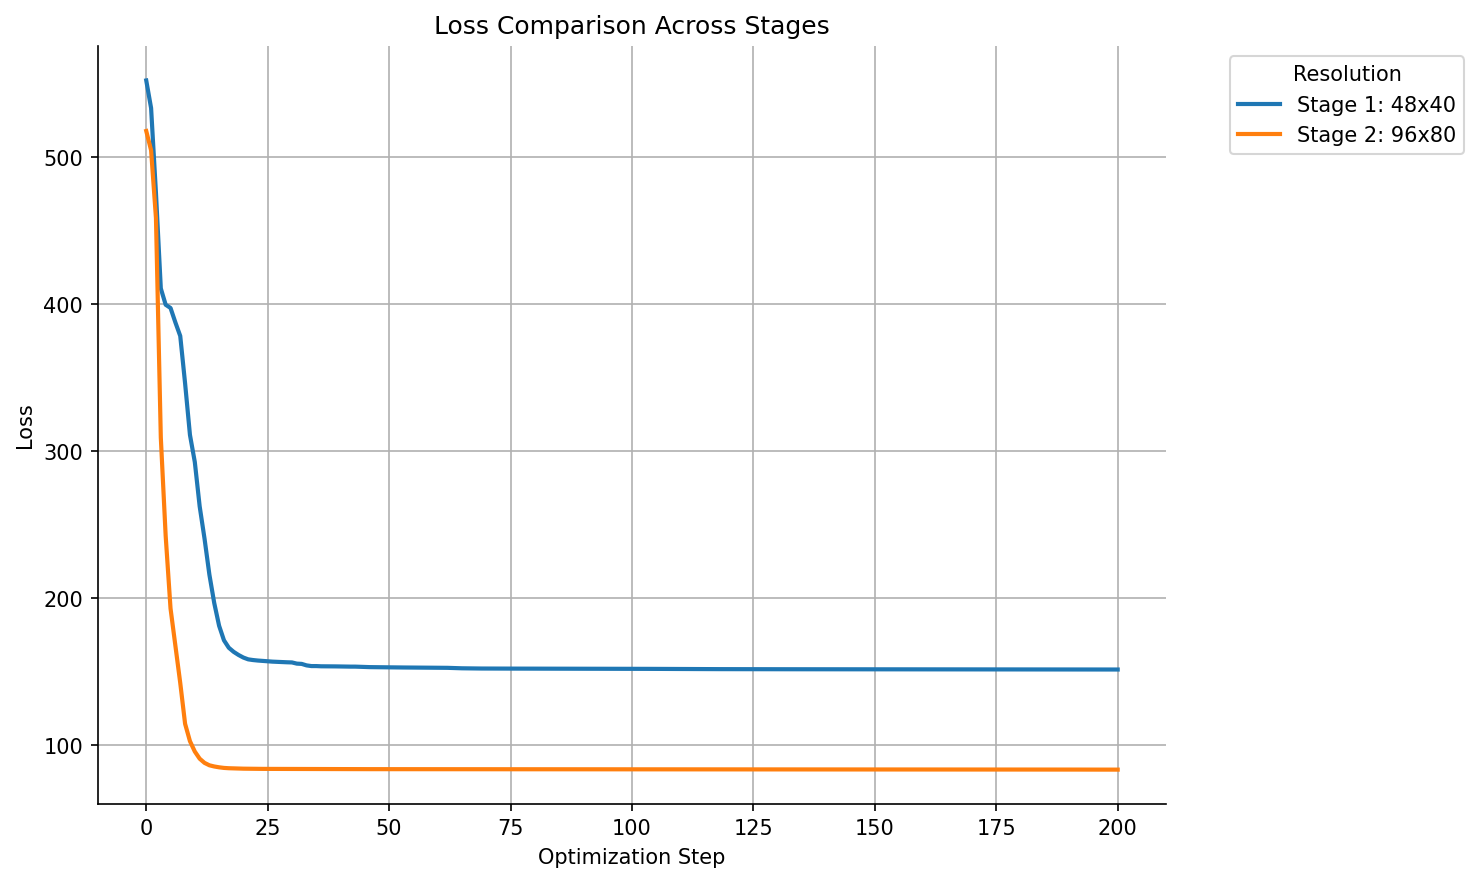
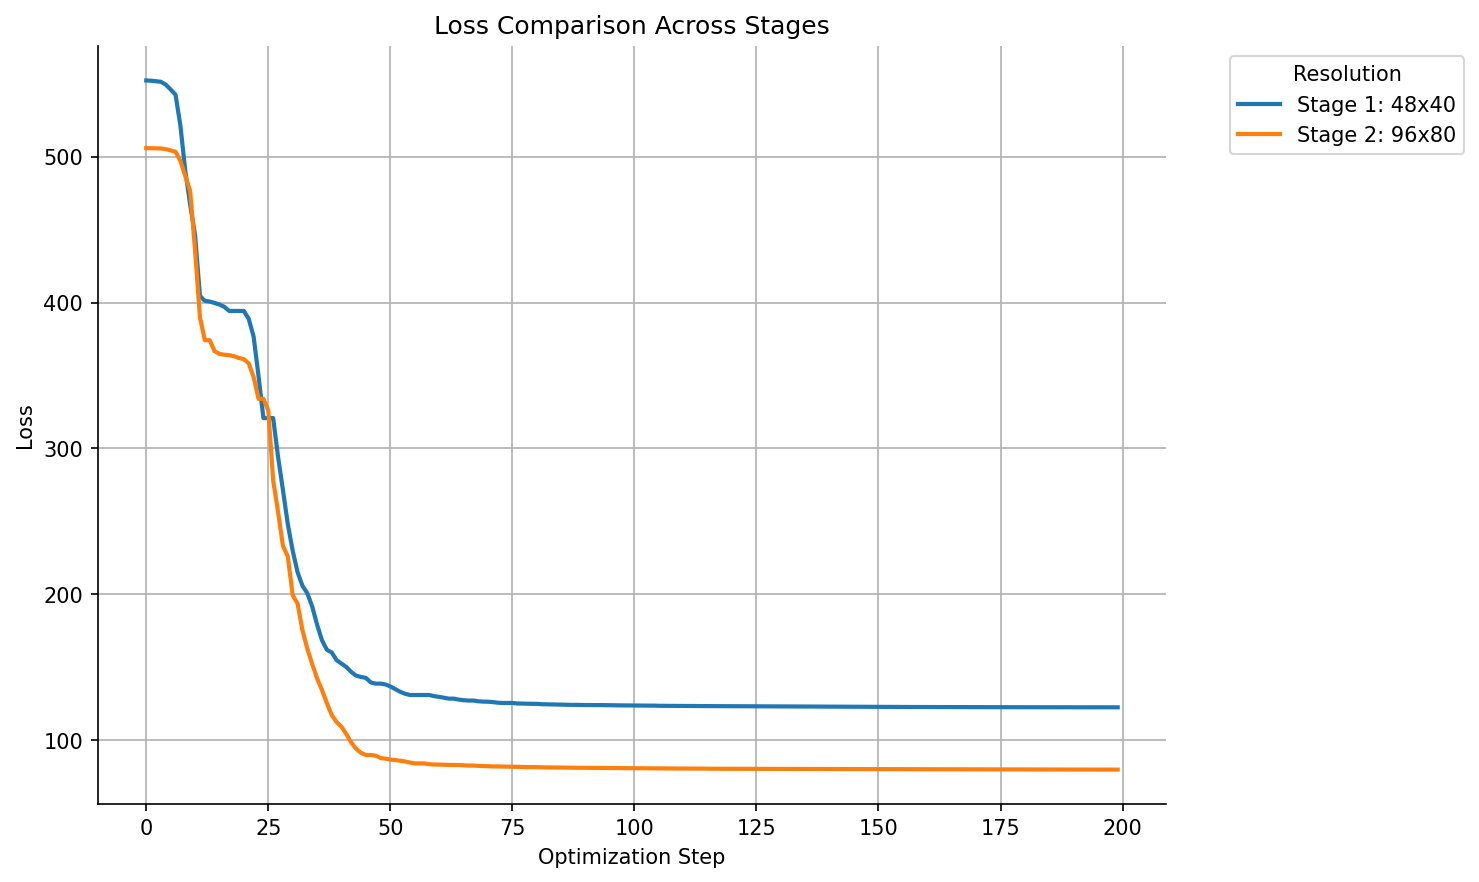
all training scripts work
mma and oc yield results in narrow grey band

diff --git a/neural_structural_optimization/train.py b/neural_structural_optimization/train.py
@@ -212,9 +212,9 @@ def train_lbfgs(
   return optimizer_result_dataset(
       np.array(losses), np.array(designs), save_intermediate_designs)
 
-
 def method_of_moving_asymptotes(
-    model, max_iterations, save_intermediate_designs=True, init_model=None,
+    model, max_iterations, save_intermediate_designs=True, init_model=None, 
+    sigmoid_steepness=10, sigmoid_center=0.5
 ):
   """Train a model using Method of Moving Asymptotes (MMA) optimization.
   
@@ -238,6 +238,8 @@ def method_of_moving_asymptotes(
   else:
     x0 = constrained_logits(init_model).ravel()
 
+  pbar = tqdm(total=max_iterations, desc="MMA Optimization")
+
   def objective(x):
     return env.objective(x, volume_contraint=False)
 
@@ -254,6 +256,7 @@ def method_of_moving_asymptotes(
         losses.append(value)
       if frames is not None:
         frames.append(env.reshape(x).copy())
+        pbar.update(1)
       return value
     return wrapper
 
@@ -263,20 +266,23 @@ def method_of_moving_asymptotes(
   opt = nlopt.opt(nlopt.LD_MMA, x0.size)
   opt.set_min_objective(wrap_autograd_func(objective, losses, frames))
   opt.add_inequality_constraint(wrap_autograd_func(constraint))
-  opt.set_lower_bounds(0.001)
+  opt.set_lower_bounds(1e-9)
   opt.set_upper_bounds(1.0)
+  opt.set_maxeval(max_iterations)
 
   try:
     x = opt.optimize(x0)
     logging.info(f'MMA optimization completed successfully')
-  except nlopt.RoundoffLimited:
-    logging.info('MMA optimization stopped due to roundoff errors')
-  except nlopt.MaxEvalReached:
-    logging.info('MMA optimization stopped due to maximum evaluations')
-  except nlopt.MaxTimeReached:
-    logging.info('MMA optimization stopped due to time limit')
+  except Exception as e:
+    logging.info(f'MMA optimization stopped: {type(e).__name__}: {e}')
+  finally:
+    pbar.close()
 
   designs = [env.render(x, volume_contraint=True) for x in frames]
+    # Print min/max values across all designs
+  designs_array = np.array(designs)
+  print(f"Designs min value: {designs_array.min():.4f}")
+  print(f"Designs max value: {designs_array.max():.4f}")
   return optimizer_result_dataset(
       np.array(losses), np.array(designs), save_intermediate_designs)
 
@@ -313,14 +319,14 @@ def optimality_criteria(
     losses = []
     frames = []
 
-    for i in range(max_iterations):
+    for i in tqdm(range(max_iterations), desc="Optimality Criteria"):
         try:
             # Apply optimality criteria step
             step_result = topo_physics.optimality_criteria_step(x, env.ke, env.args)
             
             # Handle return value - ensure it's a 1D array
             if isinstance(step_result, tuple):
-                x_new = step_result[0]
+                x_new = step_result[1]
             else:
                 x_new = step_result
             

diff --git a/script/run.py b/script/run.py
@@ -60,7 +60,7 @@ def main():
         print(f"Max iterations: {max_iterations}")
 
         model = models.PixelModelAdaptive(problem_params=params, resize_num=1)
-        ds_history = train.train_progressive(model, max_iterations, alg=train.optimality_criteria)
+        ds_history = train.train_progressive(model, max_iterations, alg=train.method_of_moving_asymptotes)
 
         # model = models.PixelModel(problem_params=params)
         # ds_history = train.train_adam(model, max_iterations)
